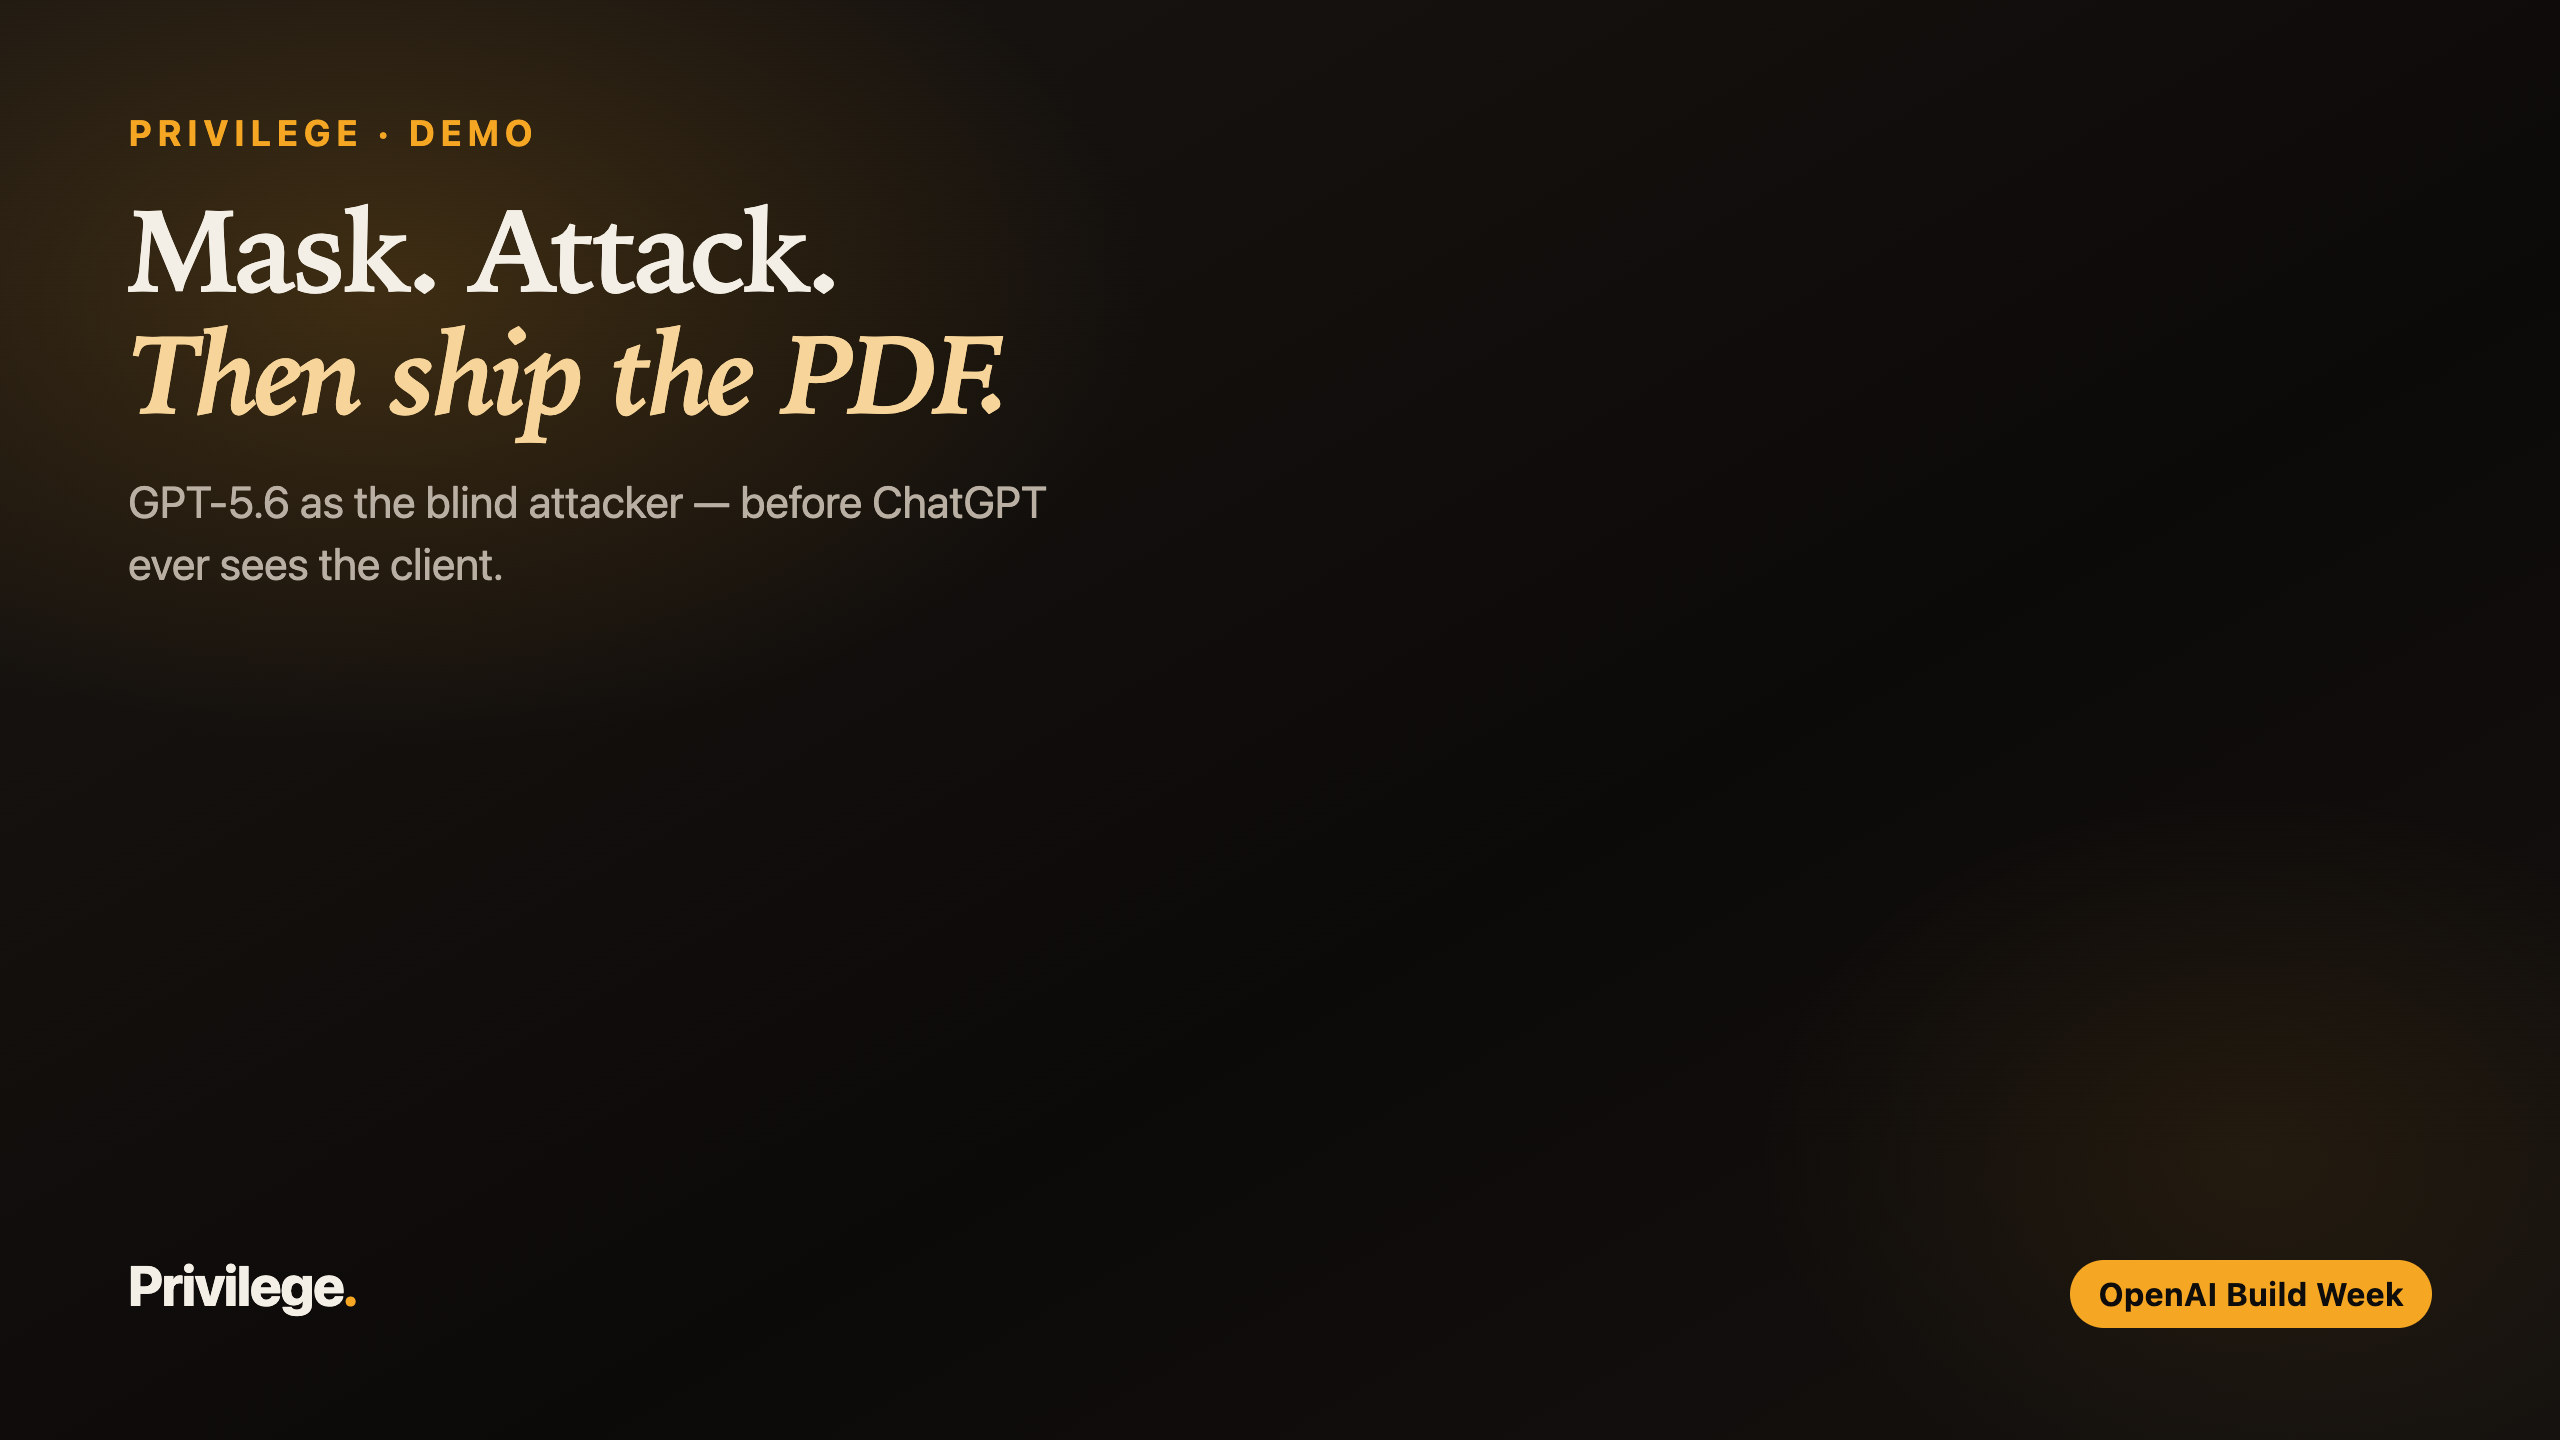
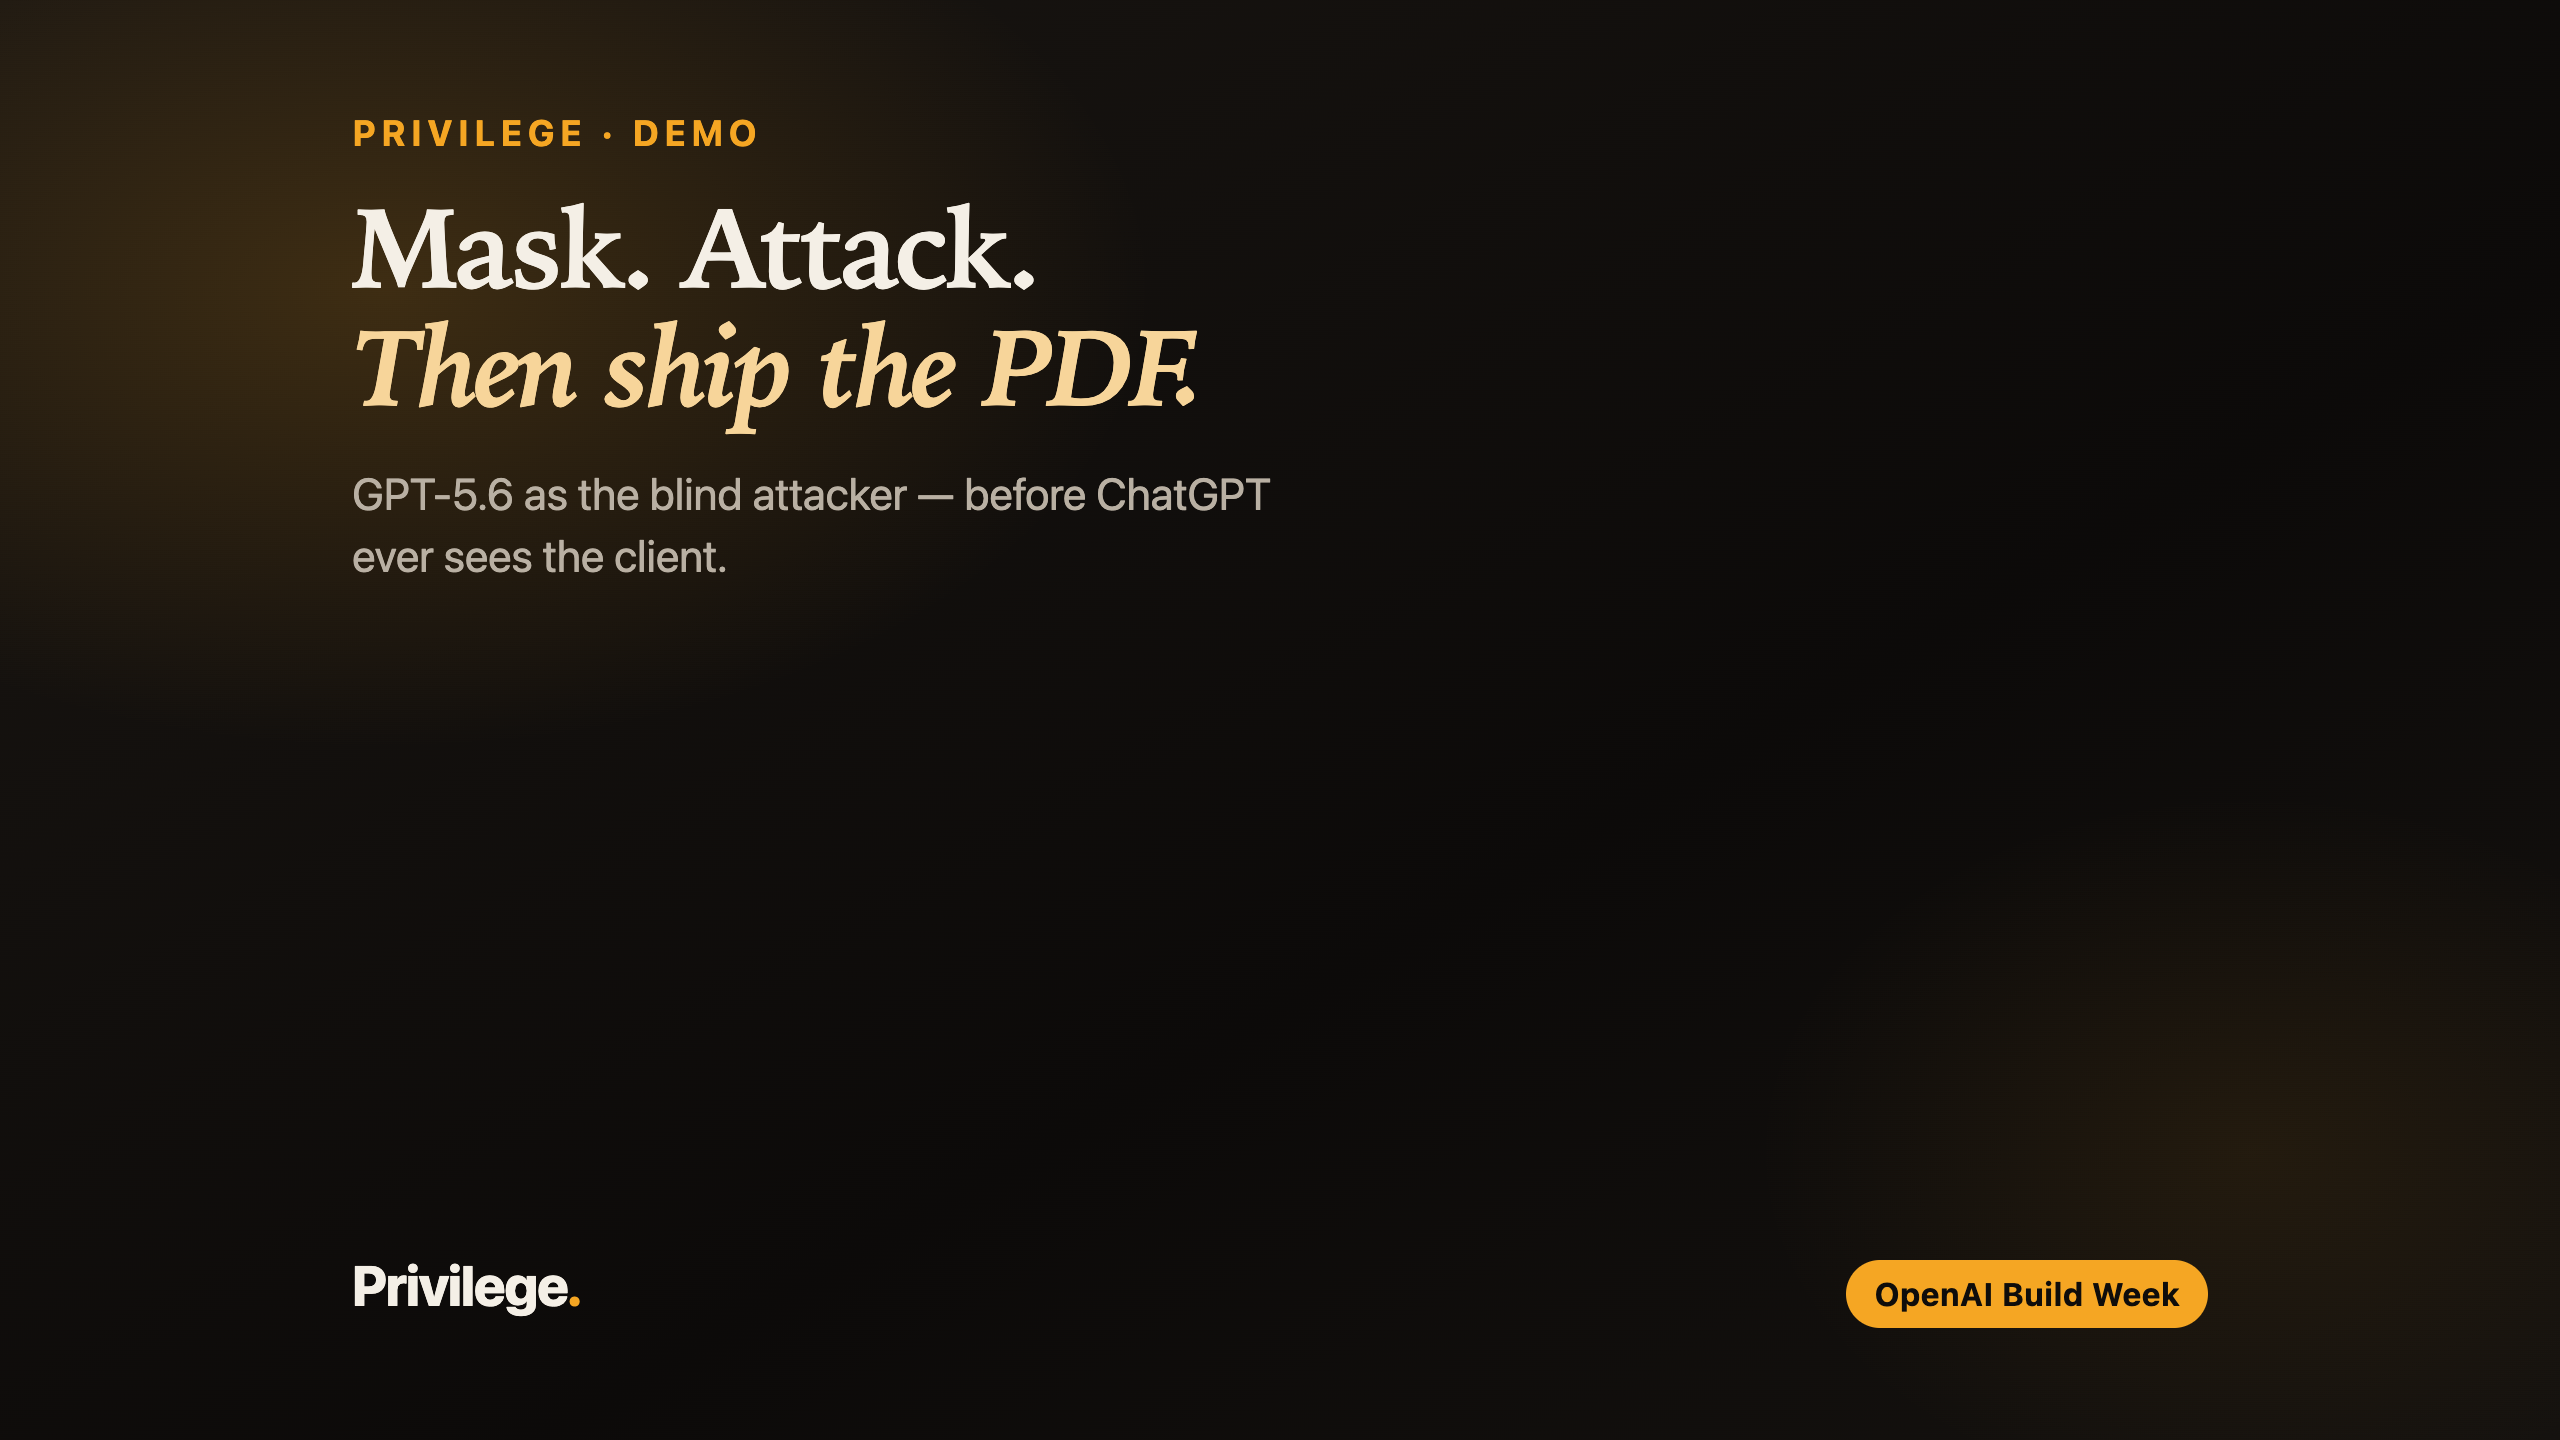
Link the published demo video and crop-safe YouTube thumbnail.
Judges cloning the repo should land on the live YouTube URL, not a Devpost paste placeholder.

diff --git a/tools/devpost-gallery/slides/thumb-youtube.html b/tools/devpost-gallery/slides/thumb-youtube.html
@@ -19,7 +19,9 @@
   #frame {
     width: 1280px;
     height: 720px;
-    padding: 56px 64px;
+    /* Devpost's gallery preview center-crops the 16:9 YouTube art.
+       Keep every critical element inside a 4:3-safe center area. */
+    padding: 56px 176px;
     display: flex;
     flex-direction: column;
     justify-content: space-between;
@@ -34,11 +36,11 @@
   }
   h1 {
     margin-top: 18px;
-    font-size: 58px;
+    font-size: 56px;
     font-weight: 700;
     letter-spacing: -0.035em;
     line-height: 1.06;
-    max-width: 16ch;
+    max-width: 18ch;
   }
   h1 em { font-style: italic; color: #f7d59a; font-weight: 600; }
   .lede {

diff --git a/README.md b/README.md
@@ -18,7 +18,7 @@ AI, then restore real names from the reply locally.
 >
 > | Path | Link / command | Time |
 > | --- | --- | --- |
-> | **Watch the demo** | YouTube (Unlisted) — paste from Devpost | ~3 min |
+> | **Watch the demo** | [YouTube — What is the purpose of this Privilege?](https://youtu.be/BKFIwCOh8vY) | 2:47 |
 > | **Clone + tests** | commands below | ~1 min |
 > | **Inspect live GPT-5.6 receipts (no key)** | `demo/demo-vault.sqlite3` + local viewer | ~60 s |
 > | **Eval honesty** | [`eval/README.md`](eval/README.md) | 2 min |

diff --git a/docs/media/YOUTUBE-UPLOAD.md b/docs/media/YOUTUBE-UPLOAD.md
@@ -12,7 +12,7 @@
 ## Title (≤100 chars)
 
 ```
-Privilege: GPT-5.6 attacks your sanitized client PDF before ChatGPT sees it
+What is the purpose of this Privilege?
 ```
 
 Alt (shorter):